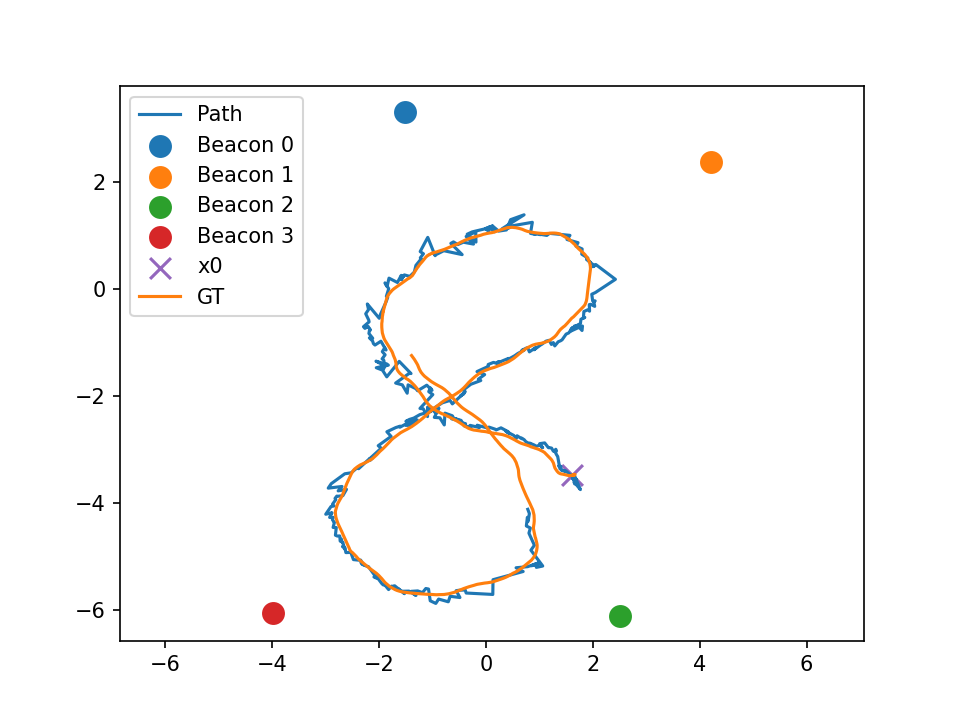
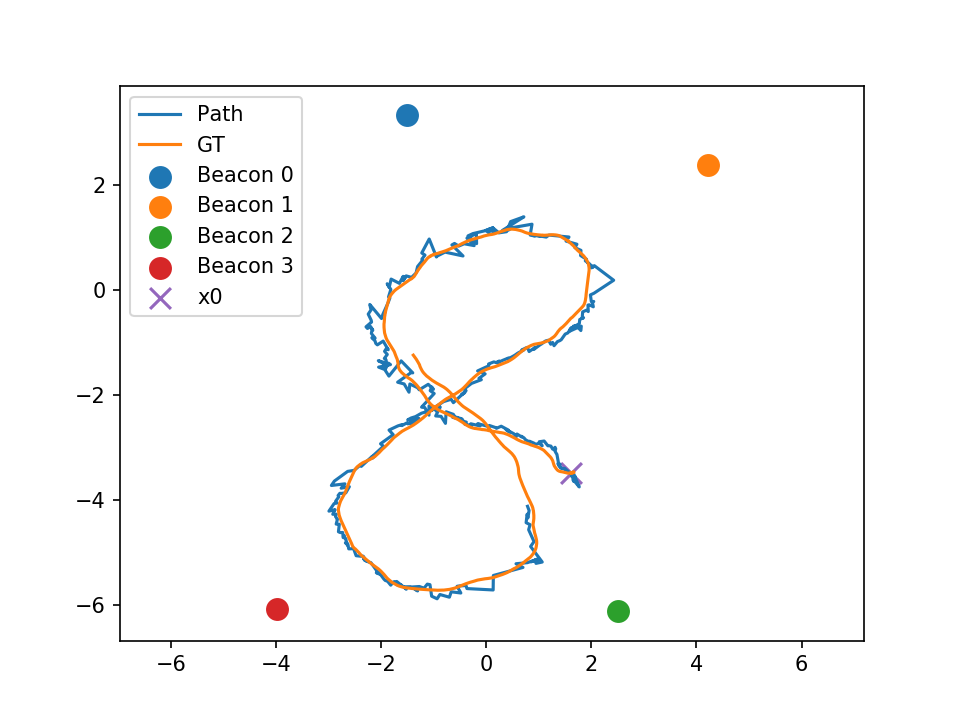
report update

diff --git a/report/sources/4_experiments.tex b/report/sources/4_experiments.tex
@@ -1,5 +1,11 @@
 Practical experiments are conducted during the course are discussed here. That includes: tuning KF (Kalman Filter) parameters (mainly evaluating covariances) by real-world experiments, testing out whole system and evaluating positioning accuracy developed in previous chapter.
 
+\subsection{Setup}
+
+Experiments are done with module from \cite{makerfabs}. The board has ESP32 microcontroller and DW1000 UWB antenna chip and provides simple yet effective way to quickly implement/test application utilizing UWB distance measurement. They also provide ready to use code example that can be readily uploaded to microcontroller. It include a library abstraction around the ranging functionality of DW1000 chip. The distance measurements are forwarded to serial port and information is extracted on a laptop for storing and processing later on. Each device can be configured as an anchor or a tag, former being beacon sending distance data to a tag (receiver). Later, a rosbag is recorded in a PC to collect measurements from all the beacons in real time. This is done by parsing serial output of a tag device and publishing these measurement as a ROS topic. There is only one tag and $N$ beacons, the tag also has a marker attached to it that Opticon system can track and publish the ground truth of an agent in real-time as a ROS topic. The mentioned topics are recorded in a single bag so that raw data can be replayed later to test positioning system on a recorded data multiple times offline.
+
+DW1000 chip has many operating modes which have different modes optimized for different properties such as measurement update rate, accuracy and application specific operating distance. The one selected in the experiments is for accuracy, sparse update rate and moderate distance. Every of thiem have different tradeoffs and must be configured depending on case by case basis.
+
 \subsection{Real-world experiments}
 
 First, it's important to address the assumption made in the simulation environment. It was assumed that sensor measurement variance is known. For filter to have good convergence properties we would like to know it up to a reasonable accuracy level when in operation. Therefore, the first experiment was conducted to measure the precision of UWB range measurements compared to a ground truth. DTU ASTA's Opticon system was used to generate ground truth labels (limited to ~10m range) and two UWB devices, one configured as a tag and another one as an anchor. During the experiment anchor was moved to different position around the track, ground truth distance calculated between devices by taking norm of two position from Opticon and corresponding measurement by the means of UWB antennas was recorded. Figure \ref{fig:distancePDF} shows the probability distributions of measured values by real-world experiments in blue and the ground truth in orange.
@@ -24,9 +30,16 @@ Next, let's look at the variance and distance relation. The question to ask here
     \label{fig:distance_var}
 \end{figure}
 
-% TODO: text
-% TODO: what are these axis in 3D one  ? :) prob using the same figure as from the 2d plot
-% TODO: look at the autocorr.py ??   
+Finally, a real experiment was conducted at DTU ASTA with Opticon system being ground truth and the setup closely following the one done in simulation i.e. having four beacons (or anchors) around an area. The tag/agent device was caried by hand to collect distance measurement from each of beacons simultaneously. 
+
+It was difficult to place the beacons in different heights because of the terrain/environment thus it's expected that $z$ component of position estimate will have high variance due to lack of information. Still for validation of prototype even looking at two planar components is enough to evaluate the plausability positioning approach using UWB antennas. At later stages this could be accounted online depending on beacon positions and possibly having more beacons to collect more information about agents position. 
+
+Also worth noting that measurement frequency is 10Hz for each beacon and connection to beacons is not stable through out the experiments, therefore measurements can be delayed or not arrive at a short enough time interval to make an update combining multiple measurements. This hints at a bigger issue - how to use data incoming at different time instances. In this case it's simply handled by a condition statements, saying that if measurement are less than some arbitrary $\Delta t$ apart in time they are considered to have occured at the same instance in time. 
+
+Later, EKF is applied to the data colleted to reconstruct the path taken by the agent, I was trying to walk in an infinity symbol patern. The results are depicted in Figure \ref{fig:exp_2d_path} as a planar 2D visualization with \emph{Path} being the estimated position, \emph{GT} - ground truth (Opticon), \emph{BeaconX} - beacon positions and \emph{$x0$} - the starting point.
+
+% TODO: describe why they are different in length
+% TODO: look at the autocorr.py ??
 
 \begin{figure}[H]
     \centering

diff --git a/rfloc.py b/rfloc.py
@@ -1,5 +1,6 @@
 import numpy as np
 import matplotlib.pyplot as plt
+from mpl_toolkits.mplot3d import Axes3D
 from matplotlib.patches import Ellipse
 
 
@@ -114,6 +115,10 @@ def mapp(beacons: list, ax0: np.ndarray, path: np.ndarray, gt_path: np.ndarray =
     plt.plot(path[:, 0].T[0], path[:, 1].T[0])
     legends.append("Path")
 
+    if gt_path is not None:
+        plt.plot(gt_path[:, 0], gt_path[:, 1])
+        legends.append("GT")
+
     for i, b in enumerate(beacons):
         x = b.get_pos()
         plt.scatter(x[0], x[1], s=100)
@@ -121,9 +126,6 @@ def mapp(beacons: list, ax0: np.ndarray, path: np.ndarray, gt_path: np.ndarray =
     plt.scatter(ax0[0], ax0[1], marker='x', s=100)
     legends.append("x0")
 
-    if gt_path is not None:
-        plt.plot(gt_path[:, 0], gt_path[:, 1])
-    legends.append("GT")
     plt.legend(legends)
     plt.savefig("report/figures/2d_path.png")
 
@@ -133,18 +135,16 @@ def mapp(beacons: list, ax0: np.ndarray, path: np.ndarray, gt_path: np.ndarray =
         plt.axis('equal')
         ax = plt.axes(projection='3d')
         ax.plot3D(path[:, 0].T[0], path[:, 1].T[0], path[:, 2].T[0])
-        # legends.append("Path")
+
+        if gt_path is not None:
+            ax.plot3D(gt_path[:, 0], gt_path[:, 1], gt_path[:, 2])
 
         for i, b in enumerate(beacons):
             x = b.get_pos()
             ax.scatter3D(x[0], x[1], x[2], s=100)
             legends.append(str(i))
         ax.scatter3D(ax0[0], ax0[1], ax0[2], marker='x', s=100)
-        # legends.append("x0")
 
-        if gt_path is not None:
-            ax.plot3D(gt_path[:, 0], gt_path[:, 1], gt_path[:, 2])
-        # legends.append("GT")
         ax.legend(legends)
         plt.savefig("report/figures/3d_path.png")
 
@@ -157,15 +157,14 @@ def plot_gt_vs_data_with_cov(path, gt, Ps, beacons):
     ax.plot(path[:, 0].T[0], path[:, 1].T[0])
     legends.append("Path")
 
+    if gt is not None:
+        ax.plot(gt[:, 0], gt[:, 1])
+        legends.append("GT")
+
     for i, b in enumerate(beacons):
         x = b.get_pos()
         ax.scatter(x[0], x[1], s=100)
         legends.append("Beacon " + str(i))
-
-    if gt is not None:
-        ax.plot(gt[:, 0], gt[:, 1])
-    legends.append("GT")
-    ax.legend(legends)
 
     for i, P in enumerate(Ps):
         if i % 11 != 0:
@@ -180,7 +179,10 @@ def plot_gt_vs_data_with_cov(path, gt, Ps, beacons):
                       linestyle='--')
         ell.set_facecolor('none')
         ax.add_artist(ell)
+
+    ax.legend(legends)
     plt.savefig("report/figures/2d_with_cov.png")
+
 
 def update(x, hx, P, Z, H, R):
     y = Z - hx
